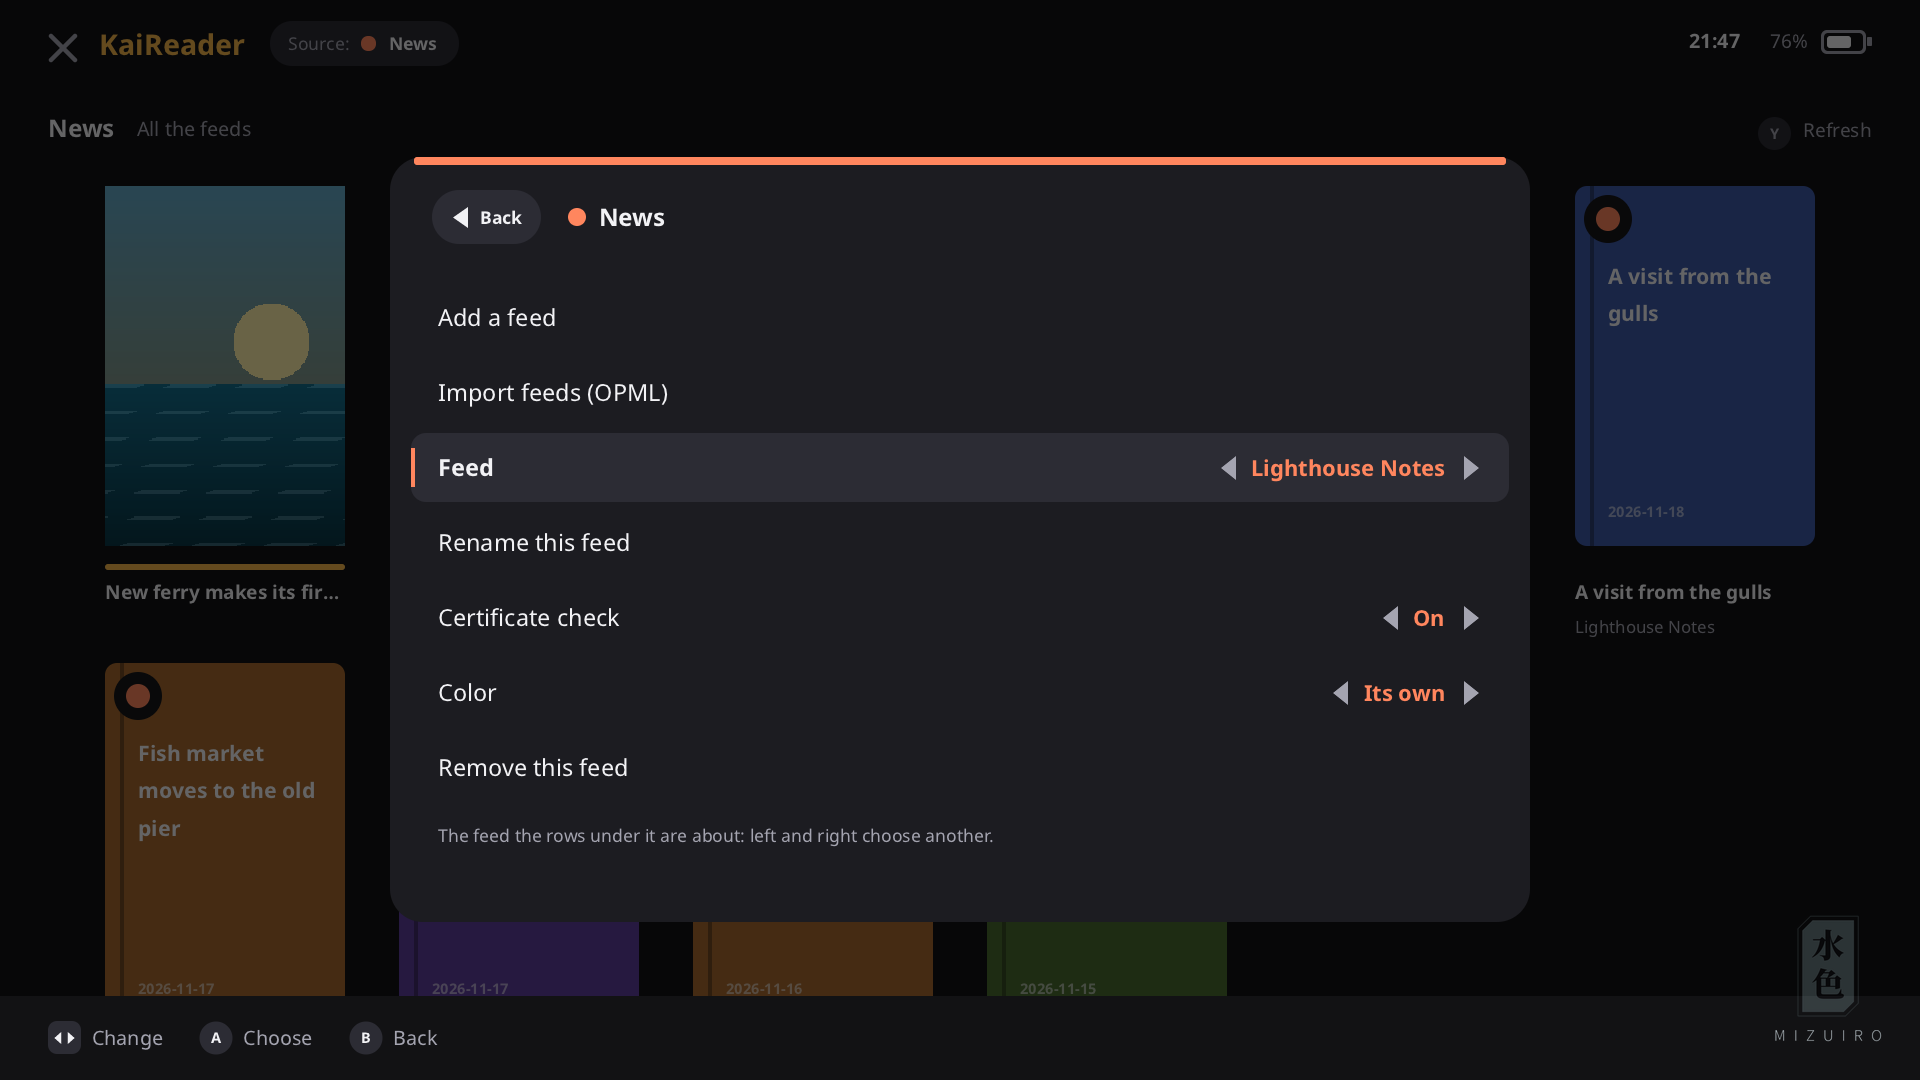
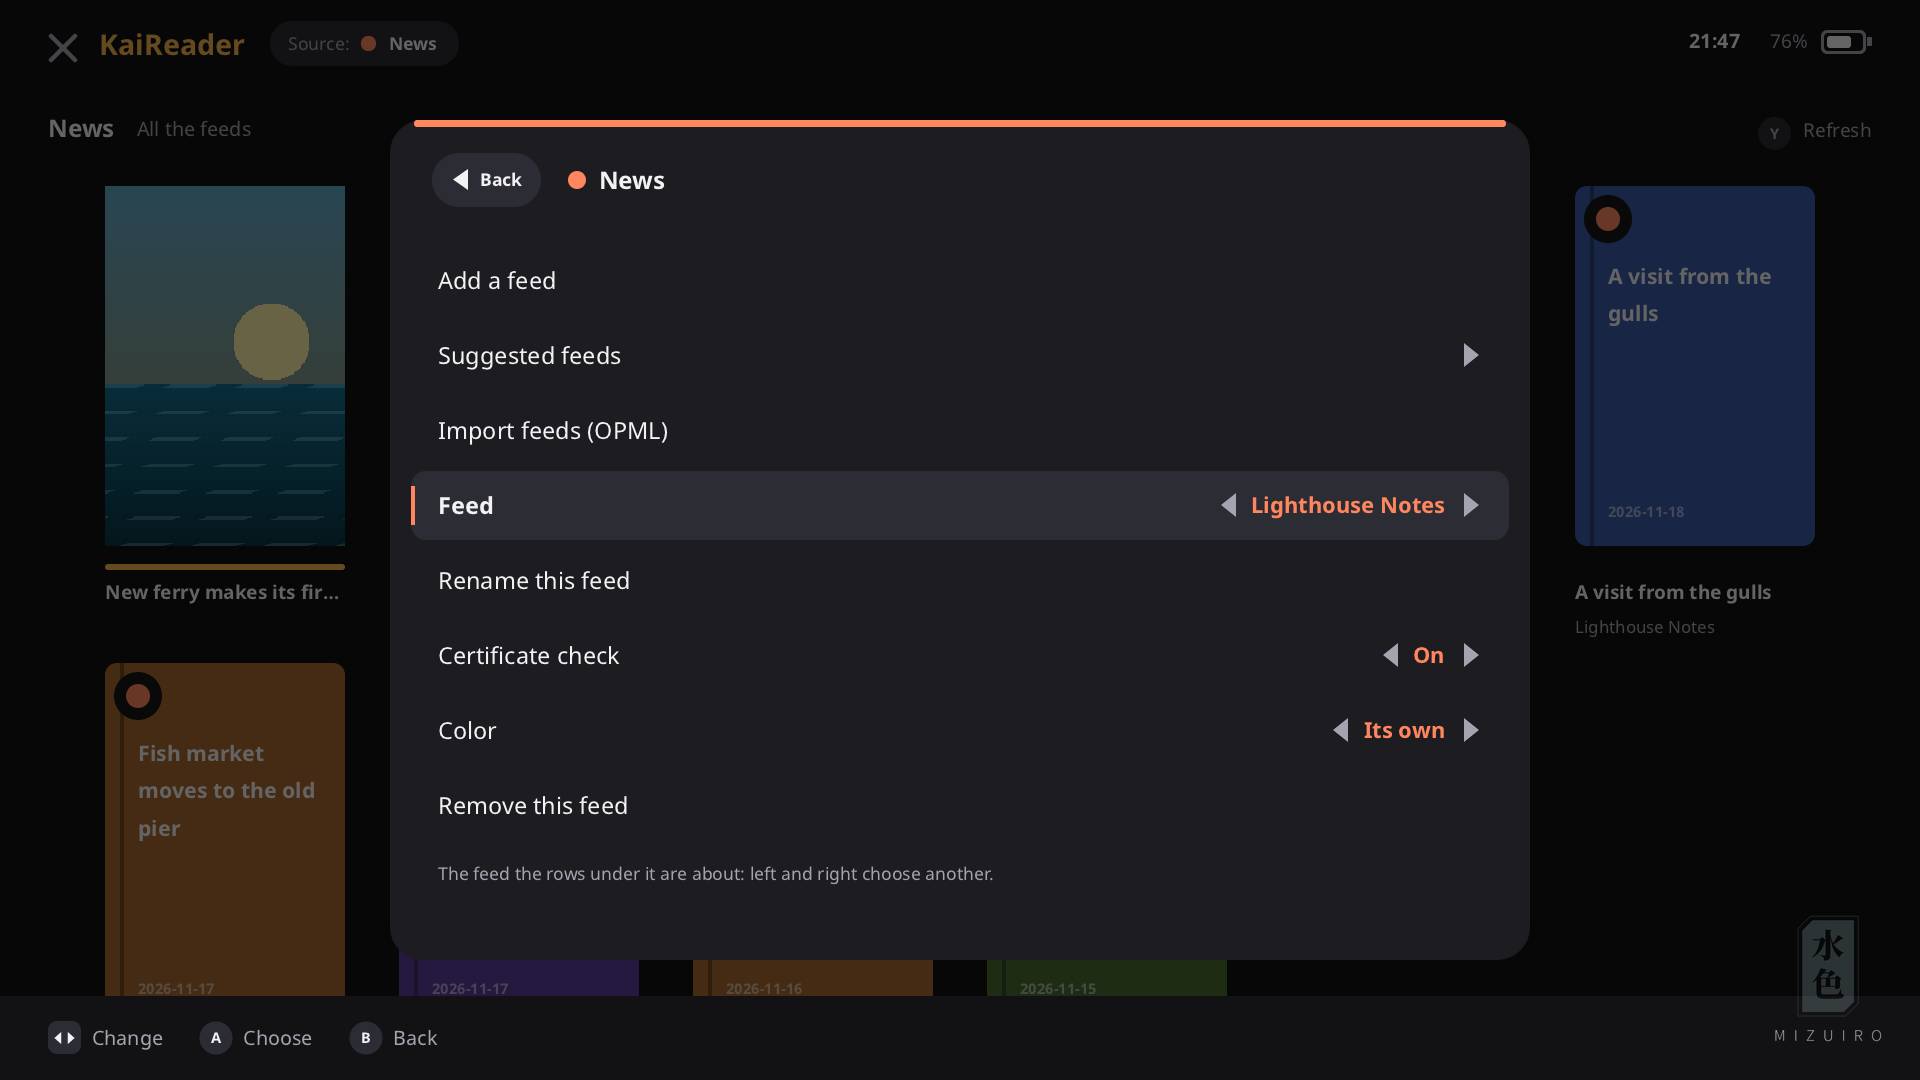
docs: news: suggested feeds, full-article limits; status

diff --git a/docs/features.md b/docs/features.md
@@ -85,7 +85,12 @@ How the accounts are kept on the card: [Security](security.md).
   site's pages that links to its feed: the feed is found), or **Import feeds
   (OPML)** from `feeds.opml`, exported from another reader and put in
   KaiReader's folder (`sdmc:/switch/kaireader/config`). The feeds are kept in
-  `feeds.txt` there. There are no feeds built in.
+  `feeds.txt` there.
+- **Suggested feeds** (Settings > News): well-known news sites, free to read,
+  in each of KaiReader's nine languages (yours first; left and right show
+  another language's), so nothing long has to be typed: **A** follows one,
+  and it says "Followed" from then on. None is followed until you pick it.
+  The list is `source/feedsuggest.c`.
 - **The library**: every feed's articles, newest first, with the feed's name
   and the date; **L**/**R** show one feed alone, or all of them again. An
   article you haven't opened wears a dot (a "New" in the list view). Its
@@ -101,7 +106,7 @@ How the accounts are kept on the card: [Security](security.md).
   that way from then on). Pictures inside articles show as their description,
   or "[picture]".
 - **+ menu**: Mark all as read (the articles shown), the next feed.
-- **Settings > News**: Add a feed, Import feeds (OPML), Feed (the one the rows
+- **Settings > News**: Add a feed, Suggested feeds, Import feeds (OPML), Feed (the one the rows
   under it are about), Rename this feed, Certificate check (off only for a
   site of your own with its own https certificate), Color, Remove this feed.
 
@@ -111,7 +116,9 @@ What the news can't do yet:
 - A feed that needs a sign-in can't be followed; adding a feed always checks
   its https certificate (turn the check off after, for a site of your own).
 - "Read the full article" is a best guess: on some sites it finds only part
-  of the article, or none (it says so).
+  of the article, or none (it says so); a photo's caption may show twice;
+  subscribers' articles show only their free part; and some sites refuse it
+  (El País answered "forbidden" to it in a test from a PC).
 - Read marks are kept for 30 days after an article has left its feed's last
   100.
 - Feeds in charsets other than UTF-8, UTF-16, ISO-8859-1/7, KOI8-R and

diff --git a/FEEDS-STATUS.md b/FEEDS-STATUS.md
@@ -57,6 +57,16 @@ Branch `feat/feeds`, worktree `D:\ns2homebrew\kaireader-feeds`, from main at 2b0
   Color.
 - No bundled newspaper presets.
 
+## Suggested feeds (2026-11-27, owner's request after the console test)
+
+- Settings > News > "Suggested feeds" (second row) opens a page: "Language" (stepped, starts on the
+  app's language), then up to 7 feeds of that language; A or a tap follows one exactly as "Add a feed"
+  does (same messages and "already followed" check), under the suggestion's name and address; a
+  followed one says "Followed". B goes back to News. Table: `source/feedsuggest.c` (9 languages).
+- Every suggested URL was fetched live on 2026-11-26 and parsed with feeds.c (one-off host check, nothing
+  real committed). `article.c` now leaves out parts beside the article (class/id share, comments,
+  related, newsletter, hidden...) when they hold little text.
+
 ## Left
 
 - Console test by the owner, with `KaiReader-news-test.nro` ("KaiReader News test", built from this
